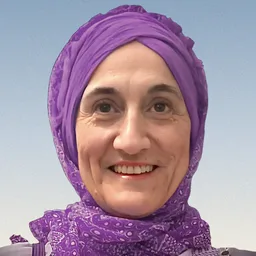
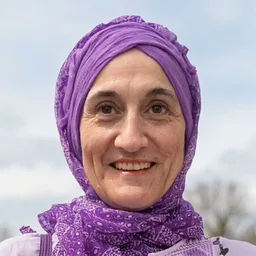
Foto nueva de Teresa con cielo natural, optimizada

diff --git a/index.html b/index.html
@@ -202,7 +202,7 @@
         <article class="resena" itemscope itemtype="https://schema.org/Review">
           <div itemprop="itemReviewed" itemscope itemtype="https://schema.org/Service"><meta itemprop="name" content="Diseño web Tu Web Moderna"></div>
           <div class="resena__quien">
-            <img class="resena__foto" src="assets/img/resena-teresa-gomez.webp?v=5" alt="Teresa Gómez Portillo" width="58" height="58">
+            <img class="resena__foto" src="assets/img/resena-teresa-gomez.webp?v=6" alt="Teresa Gómez Portillo" width="58" height="58">
             <span><strong class="resena__nombre" itemprop="author">Teresa Gómez Portillo</strong><br>
             <span class="resena__negocio">Comunicación No Violenta · Málaga</span><br>
             <a class="resena__web" href="https://comunicacionyresoluciondeconflictos.com" target="_blank" rel="noopener">Visitar página web ↗</a></span>
